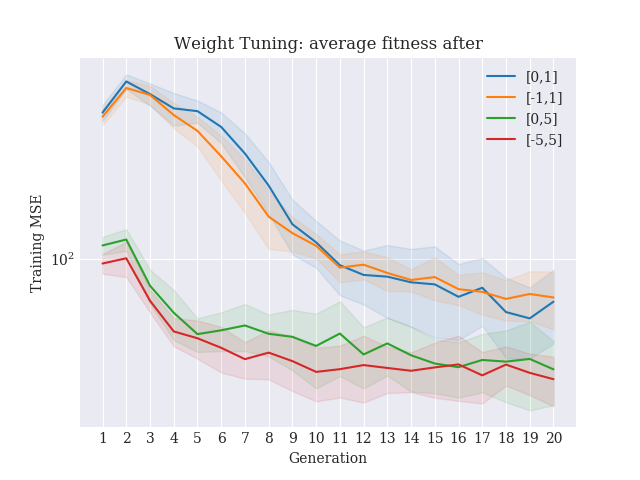
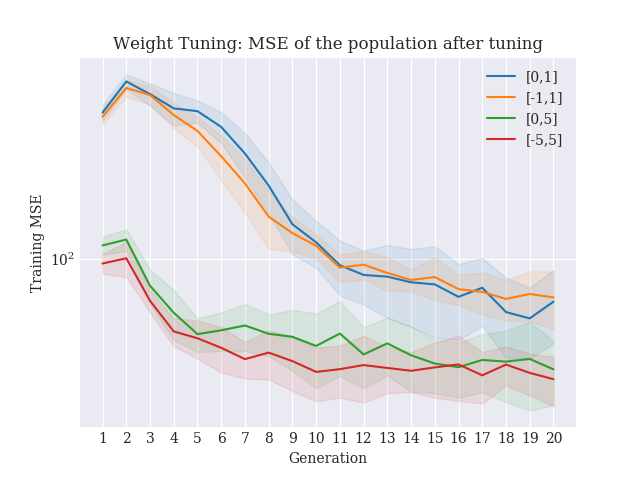
update plots with correct titles

Changed region(s): [[0.1875, 0.0625, 0.8438, 0.125]]

diff --git a/plots/plot_some_gen.py b/plots/plot_some_gen.py
@@ -54,7 +54,7 @@ palette = plt.get_cmap('tab10')
 plt.figure()
 plt.xlabel("Generation")
 plt.ylabel("Tree size")
-plt.title("Tune after x generations: average size of the trees per generation")
+plt.title("Tune after x generations: tree size of elite per generation")
 
 color = 0
 
@@ -108,7 +108,7 @@ def plot_before(keys, tune_gens, name):
     plt.figure()
     plt.xlabel("Generation")
     plt.ylabel("Training MSE")
-    plt.title("Tune after x generations: average fitness before")
+    plt.title("Tune after x generations: MSE of the population before tuning")
     plt.yscale("log")
 
     palette = plt.get_cmap('tab10')
@@ -146,7 +146,7 @@ def plot_after(keys, tune_gens, name):
     plt.figure()
     plt.xlabel("Generation")
     plt.ylabel("Training MSE")
-    plt.title("Tune after x generations: average fitness after")
+    plt.title("Tune after x generations: MSE of the population after tuning")
 
     palette = plt.get_cmap('tab10')
 

diff --git a/plots/plot_weights.py b/plots/plot_weights.py
@@ -56,7 +56,7 @@ plt.figure()
 plt.xlabel("Generation")
 plt.ylabel("Tree size")
 plt.xticks(x)
-plt.title("Weight Tuning: average size of the trees per generation")
+plt.title("Weight Tuning: tree size of the elite per generation")
 
 color = 0
 
@@ -82,7 +82,7 @@ plt.figure()
 plt.xlabel("Generation")
 plt.ylabel("Training MSE")
 plt.xticks(x)
-plt.title("Weight Tuning: average fitness before")
+plt.title("Weight Tuning: MSE of the population before tuning")
 plt.yscale("log")
 
 color = 0
@@ -109,7 +109,7 @@ plt.figure()
 plt.xlabel("Generation")
 plt.ylabel("Training MSE")
 plt.xticks(x)
-plt.title("Weight Tuning: average fitness after")
+plt.title("Weight Tuning: MSE of the population after tuning")
 plt.yscale("log")
 
 color = 0

diff --git a/plots/plot_ls.py b/plots/plot_ls.py
@@ -53,7 +53,7 @@ palette = plt.get_cmap('tab10')
 plt.figure()
 plt.xlabel("Generation")
 plt.ylabel("Tree size")
-plt.title("Linear scaling: average size of the trees per generation")
+plt.title("Linear scaling: tree size of the elite per generation")
 
 color = 0
 
